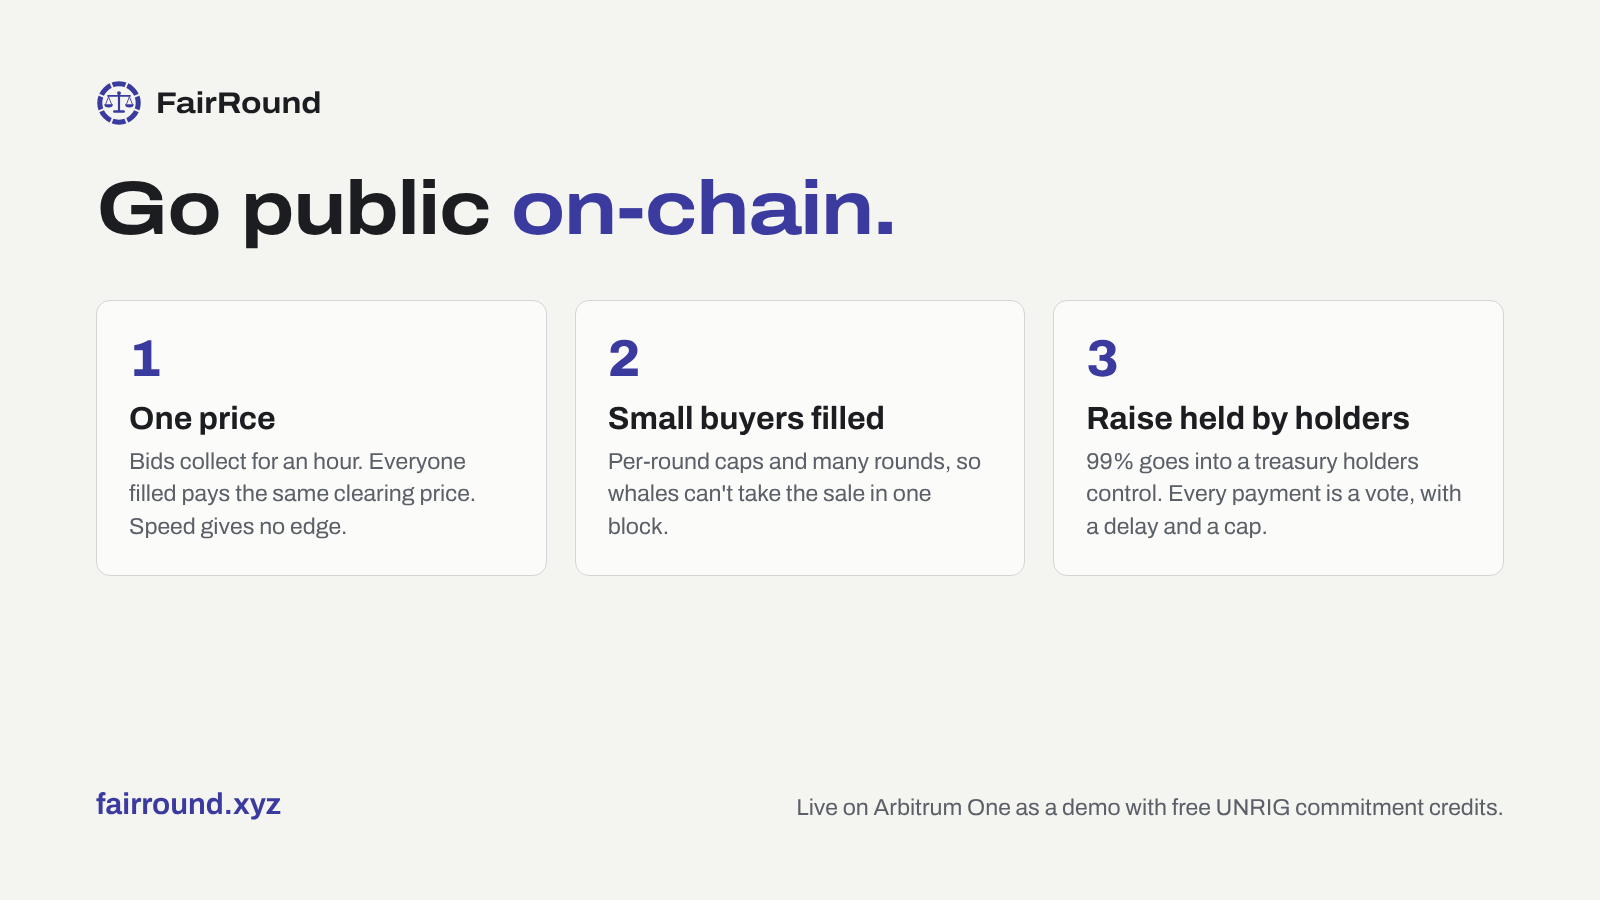
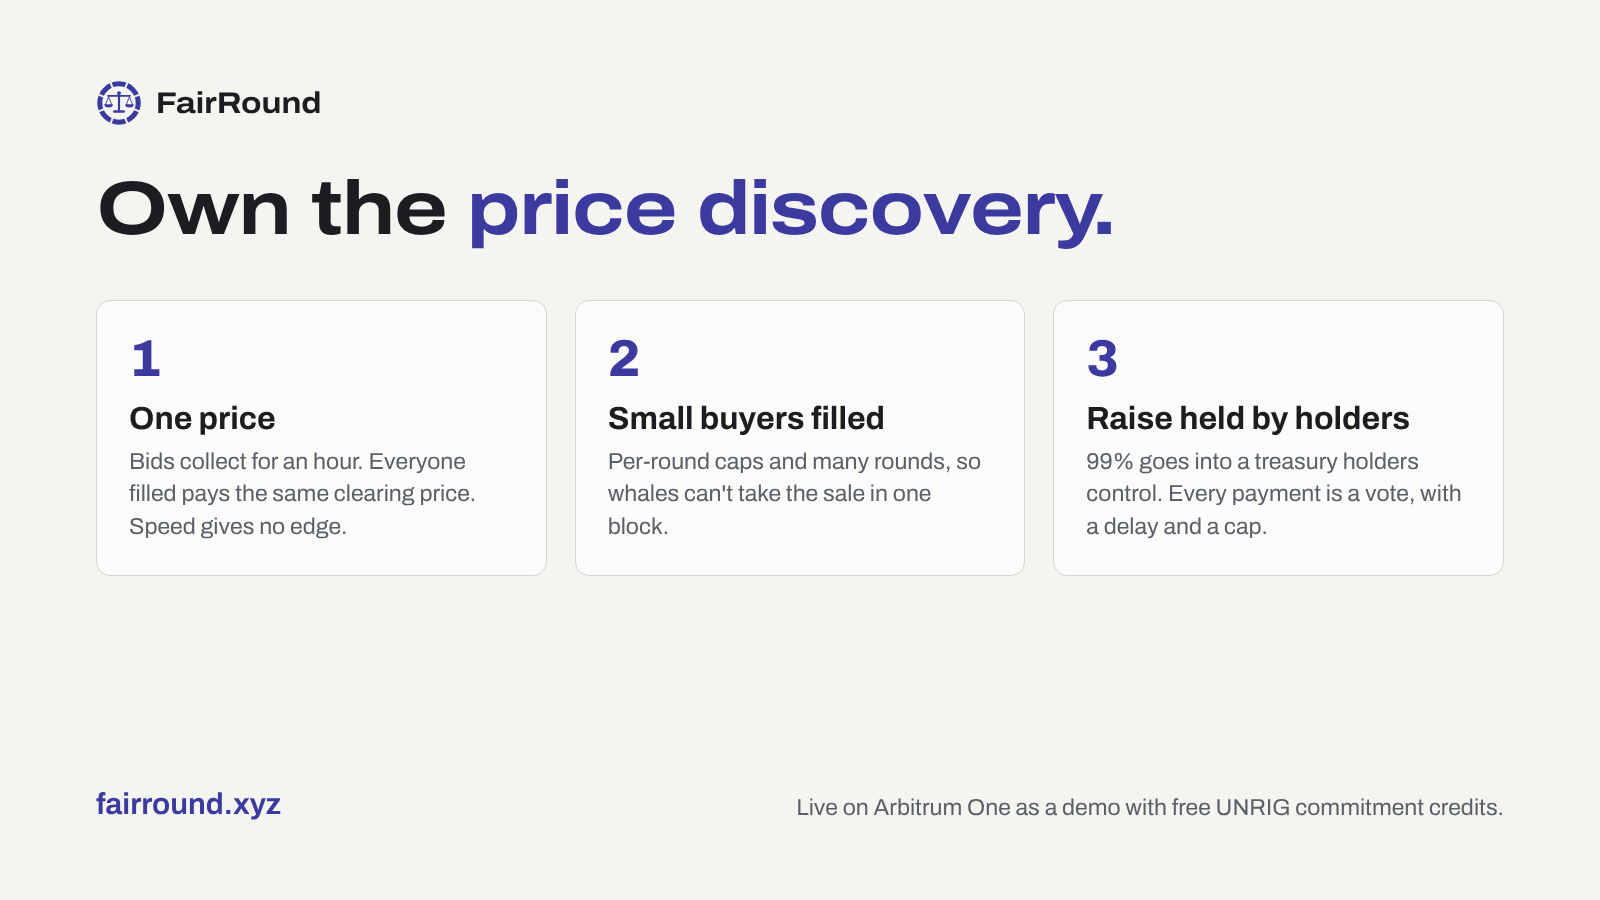
Slogan: Own the price discovery. Site headline (EN/KA), og-image, X header and how-it-works image, kit
Claude-Session: https://claude.ai/code/session_01EESBiKfppsJ211HJXDWywN

Changed region(s): [[0.0625, 0.1867, 0.6875, 0.28]]

diff --git a/site/src/strings.ka.js b/site/src/strings.ka.js
@@ -167,7 +167,7 @@ export default {
   "Stage": "ეტაპი",
   "Stand for project lead": "აღმასრულებლის კანდიდატად წარდგენა",
   "Start the auction": "აუქციონის დაწყება",
-  "Go public on-chain.": "საჯარო განთავსება ბლოკჩეინზე.",
+  "Own the price discovery.": "ფასის აღმოჩენა შენს ხელშია.",
   "Summary": "შეჯამება",
   "Term": "ვადა",
   "Term ends in {time}": "ვადის დასრულებამდე დარჩა {time}",

diff --git a/site/src/pages/Register.jsx b/site/src/pages/Register.jsx
@@ -64,7 +64,7 @@ export default function Register() {
   return (
     <div className="page">
       <section style={{ padding: "56px 0 40px" }} className="stack">
-        <h1 className="h1" style={{ maxWidth: "15ch" }}>{t("Go public on-chain.")}</h1>
+        <h1 className="h1" style={{ maxWidth: "15ch" }}>{t("Own the price discovery.")}</h1>
         <p className="lede">
           {t("The on-chain IPO exchange for crypto projects. Projects list through fair rounds: everyone pays the same clearing price, small buyers get filled, and the raise sits in a treasury holders control. Then units trade on the market.")}
         </p>

diff --git a/MARKETING_KIT.md b/MARKETING_KIT.md
@@ -9,11 +9,12 @@ Sakartvelo Exchange kit is archived in `docs/archive/`.
 - **Domain:** fairround.xyz
 - **Category:** the on-chain IPO exchange for crypto projects.
 - **One line:** Crypto projects list on FairRound through fair rounds (one clearing price per round, equal access for small buyers, the raise held in a treasury only holders can spend), then their units trade on the market.
-- **Slogan (also the site's headline):** Go public on-chain.
+- **Slogan (also the site's headline):** Own the price discovery.
+- **Category line:** the on-chain IPO exchange for crypto projects.
 - **Mission:** give crypto projects what stock markets give companies: a public listing with fair price discovery, broad ownership, and leadership that answers to shareholders.
 - **Vision:** crypto projects list like public companies, and the people who fund them own them like shareholders.
 - **UNRIG** is the name of the test credit, not a slogan.
-- **Retired:** "Unrig the launch" and "Launch without the rug" (every launchpad claims anti-rug: mentor feedback, 24 October), and "Diversified ownership defines the price" (too academic).
+- **Retired:** "Go public on-chain" (24 October, replaced the same day), "Unrig the launch" and "Launch without the rug" (every launchpad claims anti-rug: mentor feedback, 24 October), and "Diversified ownership defines the price" (too academic).
 - **What we say about competitors:** "MetaDAO's protection, on Arbitrum, without whales taking the sale." Never attack Uniswap's auctions: they are the price-discovery standard; FairRound adds who gets filled and what happens to the money.
 
 ## Official accounts
@@ -23,7 +24,7 @@ Sakartvelo Exchange kit is archived in `docs/archive/`.
 - Telegram channel: [t.me/sakartvelo_exchange](https://t.me/sakartvelo_exchange) (rename the link in channel settings to fairround if free)
 - Telegram group: [t.me/sakartveloexchange](https://t.me/sakartveloexchange) (same)
 
-Every bio: "The on-chain IPO exchange for crypto projects. Go public on-chain." then `fairround.xyz`.
+Every bio: "The on-chain IPO exchange for crypto projects. Own the price discovery." then `fairround.xyz`.
 
 ## The ten listings (demo tiers)
 

diff --git a/README.md b/README.md
@@ -1,6 +1,6 @@
 # FairRound
 
-**Go public on-chain.** The on-chain IPO exchange for crypto projects,
+**Own the price discovery.** The on-chain IPO exchange for crypto projects,
 on Arbitrum: projects list through fair rounds (one clearing price per
 round, equal access for small buyers, the raise held in a treasury only
 holders can spend), then their units trade on the market.
